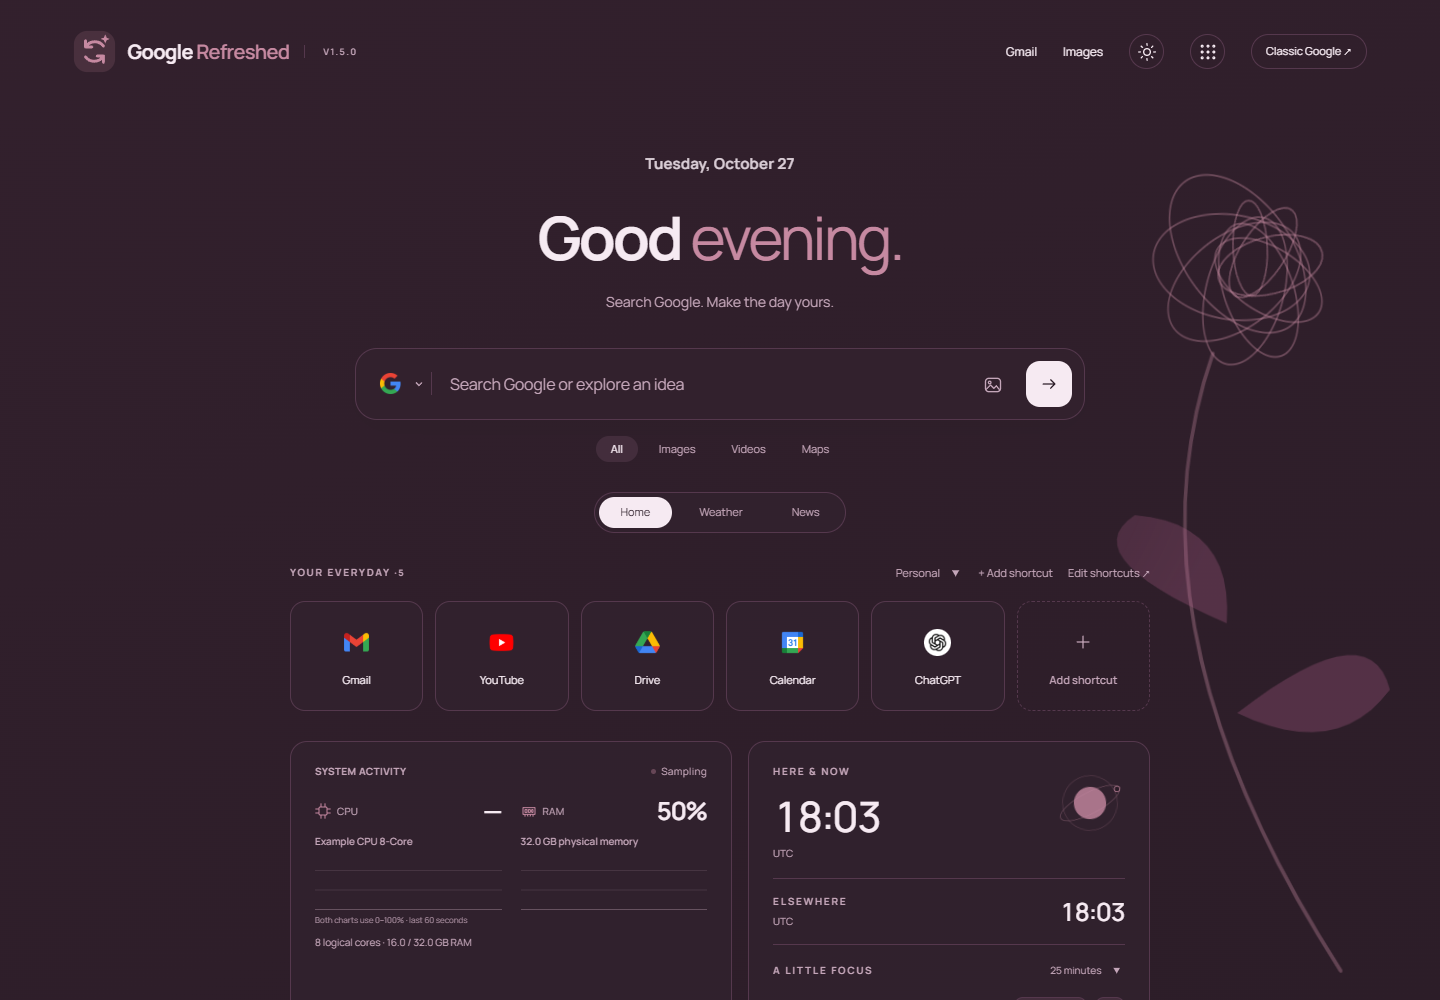
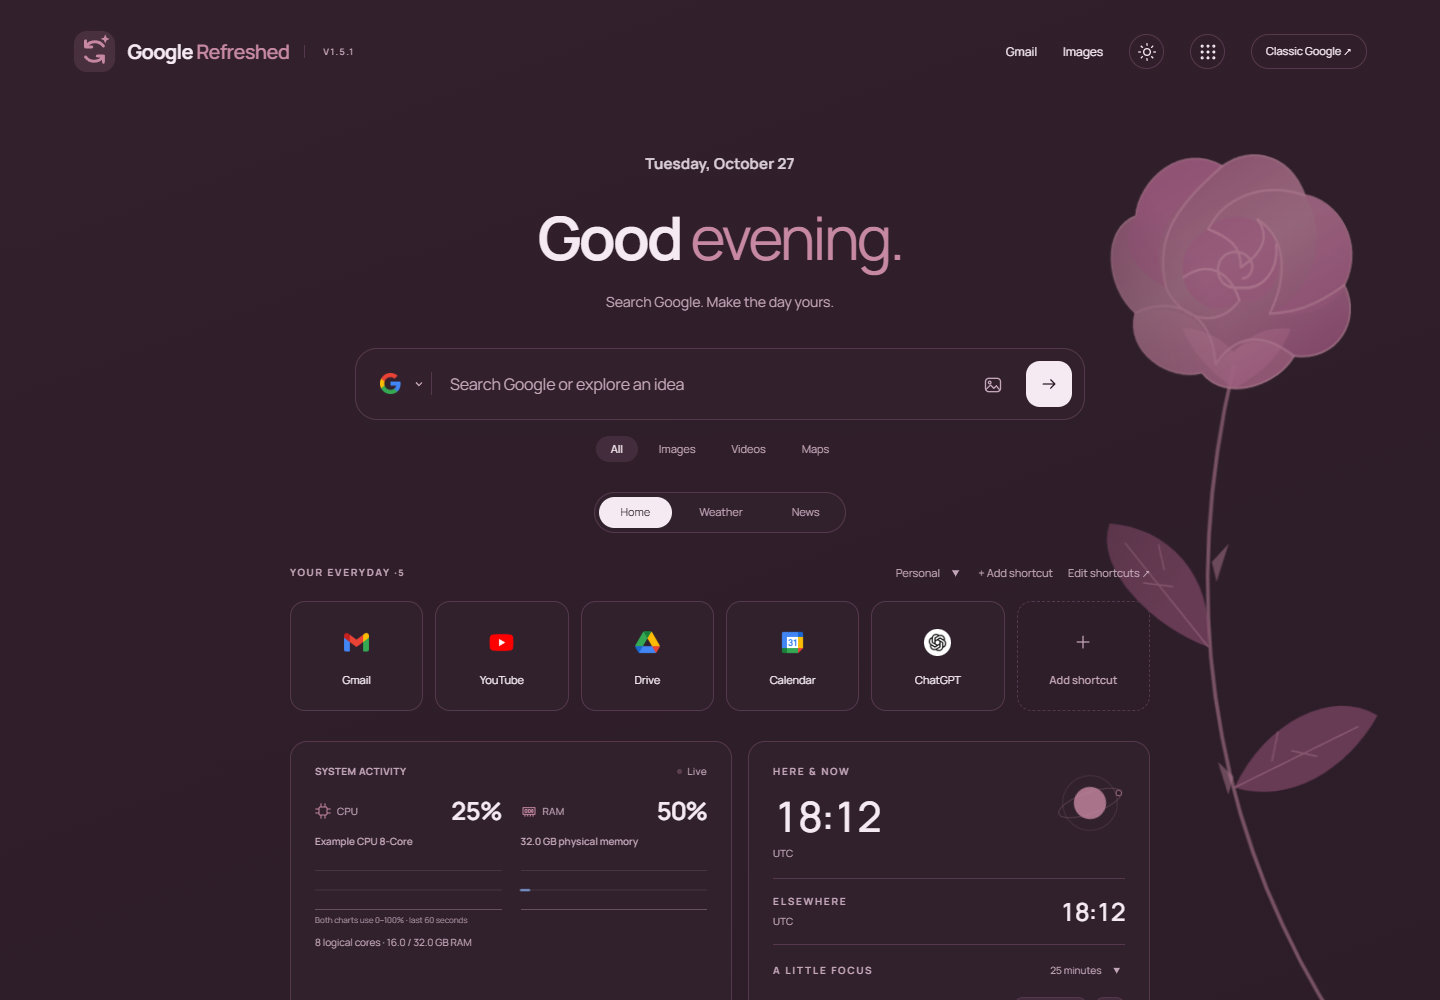
Replace tangled Rose artwork with a connected petal bloom

diff --git a/extension/scenes.js b/extension/scenes.js
@@ -23,7 +23,21 @@
     paper:()=>group('v-paper-sheet',rect(35,125,220,320,g,'rx="6" opacity=".32"')+line('M60 180H210M60 215H190M60 250H215M60 285H165',a,2,.38))+group('v-paper-fold',path('M1330 690 1550 760 1380 910 1400 800Z',g,'opacity=".42"')+line('M1330 690 1400 800 1550 760',a,2,.5))+group('v-pencil',line('M85 820 200 630',a,6,.5)+path('M82 825 84 807 94 814Z',a,'opacity=".6"')),
     sage:()=>group('v-leaf-left',line('M-20 1000Q230 670 150 180',a,5,.35)+Array.from({length:9},(_,i)=>`<ellipse cx="${110+(i%2)*45}" cy="${220+i*72}" rx="55" ry="20" fill="${g}" opacity=".42" transform="rotate(${i%2?35:-40} ${110+(i%2)*45} ${220+i*72})"/>`).join(''))+group('v-leaf-right',line('M1640 950Q1380 680 1460 380',a,4,.4)+Array.from({length:6},(_,i)=>`<ellipse cx="${1450+i%2*30}" cy="${420+i*80}" rx="65" ry="22" fill="${g}" opacity=".35" transform="rotate(${i%2?30:-35} 1450 ${420+i*80})"/>`).join('')),
     ocean:()=>group('v-tide-far',path('M-300 780Q0 690 300 790T900 790T1500 790T2100 790V1100H-300Z',a,'opacity=".26"'))+group('v-tide-near',path('M-300 875Q0 760 300 875T900 875T1500 875T2100 875V1100H-300Z',g,'opacity=".4"')+line('M-300 880Q0 765 300 880T900 880T1500 880T2100 880',f,2,.28))+group('v-sail',path('M1380 610V750H1470Z',g,'opacity=".5"')+line('M1380 610V760M1350 760H1490L1470 777H1370Z',a,3,.5)),
-    rose:()=>`<g transform="translate(1390 270)">`+group('v-rose',Array.from({length:9},(_,i)=>`<ellipse cx="0" cy="-23" rx="${20+i*5}" ry="${50+i*6}" fill="none" stroke="${a}" stroke-width="2" opacity=".4" transform="rotate(${i*40})"/>`).join(''),'')+'</g>'+group('v-leaf-left',line('M1360 380Q1250 650 1490 1000',a,4,.35)+path('M1370 650q-170-70-100-110q110 10 100 110M1380 740q150-100 170-20q-60 70-170 20',g,'opacity=".3"')),
+    rose:()=>group('v-rose-plant',
+      line('M1490 1030C1370 860 1305 635 1380 365',a,4,.6)+
+      path('M1348 645C1290 626 1220 565 1240 520C1304 525 1355 572 1348 645ZM1375 786C1410 720 1486 688 1535 716C1501 770 1435 804 1375 786Z',g,'opacity=".55"')+
+      line('M1348 645 1257 540M1375 786 1513 727M1309 584l-32-4m23-13-6-25M1417 760l7-29m15 19 28 6',a,1.5,.5)+
+      path('M1353 560 1372 542 1358 580M1374 775 1357 760 1368 793',a,'opacity=".5"')+
+      path('M1380 387Q1336 358 1323 325Q1363 330 1380 351Q1405 324 1444 328Q1429 364 1380 387Z',a,'opacity=".55"')+
+      `<g transform="translate(1380 270)">`+group('v-rose-bloom',
+        path('M-10-104C-55-128-101-91-105-56C-143-44-139 13-107 39C-119 78-70 107-35 99C-8 130 49 111 66 84C113 90 141 50 122 15C146-28 114-69 80-74C64-114 24-124-10-104Z','url(#rose-petals)',`stroke="${a}" stroke-width="2" opacity=".82"`)+
+        path('M-10-104C-64-63-96-38-73 15C-110-5-125-28-105-56C-101-91-55-128-10-104Z',g,'opacity=".55"')+
+        path('M80-74C109-27 84 24 40 42C94 50 121 25 122 15C146-28 114-69 80-74Z',g,'opacity=".4"')+
+        path('M-107 39C-55 28-24 49-20 91C4 71 29 58 66 84C49 111-8 130-35 99C-70 107-119 78-107 39Z',a,'opacity=".25"')+
+        line('M-10-104C-57-67-86-38-73 15C-54 52-12 54 7 28M80-74C34-89-10-72-26-42M122 15C88 37 65 41 40 42C61 4 59-33 28-51M-107 39C-64 22-21 41-20 91M66 84C29 57 0 65-20 91',a,2.5,.65)+
+        path('M-26-42C-3-65 39-52 48-26C62 5 32 38 7 28C-15 48-52 28-54 5C-58-17-44-34-26-42Z',g,'opacity=".56"')+
+        line('M-26-42C-4-34 10-25 9-4C35-19 41-35 28-51M-54 5C-28-11-4-2 7 28M48-26C51 0 32 19 9 16C-12 18-20 3-14-10C-8-21 10-23 19-12C25-4 20 6 11 7',a,2.5,.85)
+      )+'</g>', 'opacity=".82"'),
     futuristic:()=>group('v-circuit',line('M0 210H100L165 275V480H60M1600 500H1490L1430 560V800H1570M0 910H150L230 990',a,2,.5)+[ [100,210],[60,480],[1490,500],[1570,800] ].map(([x,y])=>circle(x,y,5,g,'class="v-spark"')).join(''))+orbit(1400,210,circle(0,0,115,'none',`stroke="${a}" stroke-width="3" stroke-dasharray="100 40 6 30" opacity=".6"`),'v-orbit',22)+group('v-scanline',rect(0,0,1600,2,g,'opacity=".22"')),
     mystic:()=>stars()+group('v-mystic-moon',moon(1380,235,105)+circle(1380,235,140,'none',`stroke="${g}" stroke-width="2" opacity=".4"`))+orbit(1380,235,[0,60,120,180,240,300].map(n=>`<path d="M0-158v-14m-5 7h10" stroke="${g}" stroke-width="2" transform="rotate(${n})"/>`).join(''),'v-orbit',38)+group('v-constellation',line('M60 260 170 190 245 355 100 450 185 590',g,2,.5)+[[60,260],[170,190],[245,355],[100,450],[185,590]].map(([x,y],i)=>circle(x,y,5,g,`class="v-spark" style="--phase:-${i}s"`)).join(''))+dust('v-mystic-dust',20),
     magical:()=>dust('v-magic-motes',24,'#e5bb6b')+group('v-grimoire',path('M35 820Q135 775 225 825Q320 775 420 820L395 955Q305 915 225 955Q140 915 55 955Z',g,'opacity=".5"')+line('M225 825V955M65 850Q140 820 200 850M260 850Q325 820 390 850M65 880Q140 850 200 880M260 880Q325 850 390 880',a,2,.7))+orbit(1370,280,circle(0,0,145,'none',`stroke="#d9ad64" stroke-width="2" opacity=".65"`)+circle(0,0,120,'none',`stroke="${g}" stroke-width="3" stroke-dasharray="12 20" opacity=".7"`)+line('M0-100 95 55H-95ZM0 100 95-55H-95Z','#d9ad64',2,.5),'v-spell-turn',45)+group('v-magic-orb',circle(1370,280,42,'url(#magic-orb)','opacity=".85"')),
@@ -59,7 +73,7 @@
     storm:()=>group('art-storm-front',cloud(-120,-40,3)+cloud(400,-70,3.3)+cloud(1000,-20,3),'opacity=".28"')+group('art-storm-back',cloud(100,50,2.4)+cloud(1000,60,2.9),'opacity=".16"')+path('M1310 150 1230 300H1275L1200 470 1350 255H1295L1370 150Z','#c4deff','class="art-lightning" opacity="0"')+group('v-storm-puddles',[ [100,940,60],[1450,920,85],[1210,990,50] ].map(([x,y,r])=>`<ellipse cx="${x}" cy="${y}" rx="${r}" ry="7" fill="none" stroke="${a}" opacity=".4" class="v-rain-ripple"/>`).join('')),
     sunset:()=>group('v-setting-sun',circle(1390,720,125,'url(#sunset-colors)','opacity=".7"'))+path('M0 830Q210 790 420 840T950 840T1600 820V1000H0Z',b)+group('v-sunset-reflection',line('M1270 855H1510M1295 880H1480M1260 910H1520M1300 940H1480',g,6,.5))+group('v-sunset-cloud',cloud(0,160,1.5)+cloud(1310,300,1.3),'opacity=".25"')
   });
-  const extraDefs=`<g id="scene-blossom">${[0,72,144,216,288].map(n=>`<ellipse cx="0" cy="-14" rx="10" ry="15" fill="currentColor" transform="rotate(${n})"/>`).join('')}${circle(0,0,5,a)}</g><linearGradient id="boreal-green" x1="0" y1="1" x2="0" y2="0"><stop stop-color="#5eebad" stop-opacity=".9"/><stop offset=".45" stop-color="#3cbaa7" stop-opacity=".4"/><stop offset="1" stop-color="#478eb6" stop-opacity="0"/></linearGradient><linearGradient id="boreal-purple" x1="0" y1="1" x2="0" y2="0"><stop stop-color="#ad8fe8" stop-opacity=".8"/><stop offset=".5" stop-color="#6a92d3" stop-opacity=".3"/><stop offset="1" stop-color="#6a92d3" stop-opacity="0"/></linearGradient><radialGradient id="magic-orb"><stop stop-color="#fff0bc"/><stop offset=".4" stop-color="#dfbd75"/><stop offset="1" stop-color="#b17bce" stop-opacity=".1"/></radialGradient><linearGradient id="ice-facet"><stop stop-color="${g}"/><stop offset=".5" stop-color="${f}" stop-opacity=".3"/><stop offset="1" stop-color="${a}"/></linearGradient><linearGradient id="amber-resin"><stop stop-color="#f2ce7c"/><stop offset=".5" stop-color="#bb7627"/><stop offset="1" stop-color="#eeb65b"/></linearGradient><linearGradient id="flame-color" x2="0" y2="1"><stop stop-color="#ffb955"/><stop offset=".5" stop-color="#ed682d"/><stop offset="1" stop-color="#9f3026" stop-opacity=".2"/></linearGradient><linearGradient id="lava-color"><stop stop-color="#b52922"/><stop offset=".4" stop-color="#f57732"/><stop offset=".7" stop-color="#d13d27"/><stop offset="1" stop-color="#ff9f40"/></linearGradient>`;
+  const extraDefs=`<linearGradient id="rose-petals" x1="0" y1="0" x2=".6" y2="1"><stop stop-color="${g}"/><stop offset=".55" stop-color="${a}"/><stop offset="1" stop-color="${g}"/></linearGradient><g id="scene-blossom">${[0,72,144,216,288].map(n=>`<ellipse cx="0" cy="-14" rx="10" ry="15" fill="currentColor" transform="rotate(${n})"/>`).join('')}${circle(0,0,5,a)}</g><linearGradient id="boreal-green" x1="0" y1="1" x2="0" y2="0"><stop stop-color="#5eebad" stop-opacity=".9"/><stop offset=".45" stop-color="#3cbaa7" stop-opacity=".4"/><stop offset="1" stop-color="#478eb6" stop-opacity="0"/></linearGradient><linearGradient id="boreal-purple" x1="0" y1="1" x2="0" y2="0"><stop stop-color="#ad8fe8" stop-opacity=".8"/><stop offset=".5" stop-color="#6a92d3" stop-opacity=".3"/><stop offset="1" stop-color="#6a92d3" stop-opacity="0"/></linearGradient><radialGradient id="magic-orb"><stop stop-color="#fff0bc"/><stop offset=".4" stop-color="#dfbd75"/><stop offset="1" stop-color="#b17bce" stop-opacity=".1"/></radialGradient><linearGradient id="ice-facet"><stop stop-color="${g}"/><stop offset=".5" stop-color="${f}" stop-opacity=".3"/><stop offset="1" stop-color="${a}"/></linearGradient><linearGradient id="amber-resin"><stop stop-color="#f2ce7c"/><stop offset=".5" stop-color="#bb7627"/><stop offset="1" stop-color="#eeb65b"/></linearGradient><linearGradient id="flame-color" x2="0" y2="1"><stop stop-color="#ffb955"/><stop offset=".5" stop-color="#ed682d"/><stop offset="1" stop-color="#9f3026" stop-opacity=".2"/></linearGradient><linearGradient id="lava-color"><stop stop-color="#b52922"/><stop offset=".4" stop-color="#f57732"/><stop offset=".7" stop-color="#d13d27"/><stop offset="1" stop-color="#ff9f40"/></linearGradient>`;
 
   const defs=`<defs><linearGradient id="sun-glow"><stop stop-color="#ffe2a0"/><stop offset="1" stop-color="${a}"/></linearGradient><linearGradient id="planet-colors" x2="1" y2="1"><stop stop-color="${g}"/><stop offset="1" stop-color="${a}"/></linearGradient><linearGradient id="aurora-colors"><stop stop-color="${a}"/><stop offset=".5" stop-color="${g}"/><stop offset="1" stop-color="#8c7bce"/></linearGradient><linearGradient id="sunset-colors" x2="0" y2="1"><stop stop-color="#f9c590"/><stop offset="1" stop-color="#cf6a95"/></linearGradient><linearGradient id="moon-colors"><stop stop-color="#f0f3ff"/><stop offset="1" stop-color="#8995af"/></linearGradient><linearGradient id="star-tail"><stop stop-color="${f}" stop-opacity="0"/><stop offset="1" stop-color="${f}"/></linearGradient><pattern id="wood-grain" width="260" height="200" patternUnits="userSpaceOnUse"><path d="M0 0H260M0 198H260M10 70Q160 20 250 90M10 90Q160 60 250 110M20 130Q130 180 240 140" fill="none" stroke="${a}" stroke-opacity=".25"/></pattern></defs>`;
   globalThis.GoogleRefreshedScenes={render:id=>`<svg viewBox="0 0 1600 1000" preserveAspectRatio="none" aria-hidden="true" data-scene="${Object.hasOwn(scenes,id)?id:'paper'}">${defs}<defs>${extraDefs}</defs>${(scenes[id]||scenes.paper)()}</svg>`};

diff --git a/extension/refresh.css b/extension/refresh.css
@@ -168,7 +168,8 @@ input[type=file]::file-selector-button{background:var(--soft);color:var(--fg);bo
 .app[data-motion=on] .v-tide-far{animation:v-wave-swell 12s ease-in-out infinite alternate}
 .app[data-motion=on] .v-tide-near{animation:v-wave-swell 8s -3s ease-in-out infinite alternate-reverse}
 .app[data-motion=on] .v-sail{animation:v-sailing 15s ease-in-out infinite alternate}
-.app[data-motion=on] .v-rose{animation:v-rose-open 12s ease-in-out infinite alternate;transform-origin:0 0}
+.app[data-motion=on] .v-rose-plant{animation:v-rose-sway 11s ease-in-out infinite alternate;transform-origin:1490px 1030px}
+.app[data-motion=on] .v-rose-bloom{animation:v-rose-open 9s -3s ease-in-out infinite alternate;transform-origin:0 0}
 .app[data-motion=on] .v-circuit{animation:v-circuit-breathe 6s ease-in-out infinite alternate}
 .app[data-motion=on] .v-scanline{animation:v-scan 14s linear infinite}
 .app[data-motion=on] .v-mystic-moon{animation:v-mystic-rise 10s ease-in-out infinite alternate}
@@ -262,7 +263,8 @@ input[type=file]::file-selector-button{background:var(--soft);color:var(--fg);bo
 @keyframes v-branch-right{from{transform:rotate(2deg)}to{transform:rotate(-1.8deg)}}
 @keyframes v-wave-swell{from{transform:translate(-55px,10px)}to{transform:translate(55px,-15px)}}
 @keyframes v-sailing{from{transform:translate(-55px,4px) rotate(-.7deg)}to{transform:translate(25px,-8px) rotate(.7deg)}}
-@keyframes v-rose-open{from{transform:scale(.94) rotate(-3deg)}to{transform:scale(1.06) rotate(3deg)}}
+@keyframes v-rose-sway{from{transform:rotate(-1.2deg)}to{transform:rotate(1.2deg)}}
+@keyframes v-rose-open{from{transform:scale(.98)}to{transform:scale(1.025)}}
 @keyframes v-circuit-breathe{from{opacity:.55}to{opacity:1}}
 @keyframes v-scan{from{transform:translateY(-20px);opacity:0}15%,85%{opacity:.65}to{transform:translateY(1020px);opacity:0}}
 @keyframes v-mystic-rise{from{transform:translateY(-16px)}to{transform:translateY(18px)}}

diff --git a/extension/popup.html b/extension/popup.html
@@ -1,3 +1,3 @@
 <!doctype html>
 <html lang="en"><meta charset="utf-8"><meta name="viewport" content="width=device-width, initial-scale=1"><title>GoogleRefreshed</title><link rel="stylesheet" href="popup.css">
-<body><img src="icons/48.png" alt="" width="48" height="48"><h1>GoogleRefreshed.</h1><p>Google search. Your personal start.</p><a href="https://www.google.com/" target="_blank" rel="noopener">Open your homepage ↗</a><a class="secondary" href="https://www.google.com/?still=customize" target="_blank" rel="noopener">Customize your homepage</a><a class="secondary" href="https://github.com/youval1234/GoogleRefreshed/releases/latest" target="_blank" rel="noopener">Check GitHub for updates ↗</a><small>v1.5.0 · Optional browser settings sync.</small></body></html>
+<body><img src="icons/48.png" alt="" width="48" height="48"><h1>GoogleRefreshed.</h1><p>Google search. Your personal start.</p><a href="https://www.google.com/" target="_blank" rel="noopener">Open your homepage ↗</a><a class="secondary" href="https://www.google.com/?still=customize" target="_blank" rel="noopener">Customize your homepage</a><a class="secondary" href="https://github.com/youval1234/GoogleRefreshed/releases/latest" target="_blank" rel="noopener">Check GitHub for updates ↗</a><small>v1.5.1 · Optional browser settings sync.</small></body></html>

diff --git a/extension/content.js b/extension/content.js
@@ -99,7 +99,7 @@
   let settings, mode = 'all', activeTab='home', classic = false, saveQueue = Promise.resolve(), noteTimer, clockTimer, saveTimer;
   let saveWaiters = [];
   const repoURL = 'https://github.com/youval1234/GoogleRefreshed';
-  const version = preview ? '1.5.0' : chrome.runtime.getManifest().version;
+  const version = preview ? '1.5.1' : chrome.runtime.getManifest().version;
   const dateFormatter = new Intl.DateTimeFormat('en', {weekday:'long',month:'long',day:'numeric'});
   const localZone = Intl.DateTimeFormat().resolvedOptions().timeZone.replaceAll('_',' ').replaceAll('/',' / ');
   const hiddenSiblings = new Map();

diff --git a/RELEASE_NOTES.md b/RELEASE_NOTES.md
@@ -1,15 +1,7 @@
-# GoogleRefreshed v1.5.0
+# GoogleRefreshed v1.5.1
 
-All themes have rebuilt scenery and stronger, measured motion. Fire and Magma bring the collection to 38 themes, with light, dark and system appearance.
+Fixes the Rose theme: overlapping orbital loops are replaced with a layered rose bloom, shaded petals, defined leaves and leaf veins. The flower and stem now share one gentle sway, with a small bloom-opening animation.
 
-- Aurora has layered northern-light curtains; Sakura has two blossom trees and independently drifting petals. Magical has a floating spellbook, orbiting seal and luminous orb. Midnight has a moonlit mountain lake and occasional meteors.
-- Code, Math, Colorful and Rainbow have new compositions: editor and flowing circuit data, traced graphs and geometry, moving Memphis shapes, and prism light with a spectrum arc. Every other theme has its own scenery and animation pass.
-- Animations stay behind the interface with a quiet center, Vivid/Subtle intensity, an off switch, reduced-motion support and hidden-tab pause. Only the selected scene is mounted. Blossom shapes are reused and skyline window animations are bounded.
-- Up to 60 shortcuts, wrapping onto additional rows. An Add shortcut button beside the group selector and a visible count make expansion easier.
-- The hardware card now keeps CPU/RAM model information and aligned usage graphs. The secondary GPU/network/unavailable-temperature block and its WebGL/connection probes are removed.
-- Reset settings to default is near the top of Customize. A second click restores homepage preferences and default shortcuts, clears local personalization, resets the focus timer and turns off optional browser settings sync. Closing Customize cancels the pending confirmation. It does not uninstall a separately installed toolbar theme.
-- Updated matching native toolbar themes: 76 light/dark folders, including Fire and Magma. They remain separate, manually installed companion themes. No new permissions are requested.
+Light/dark palettes, animation off, reduced motion, and the narrow layout were checked in an isolated Brave profile. The updated dark and light previews are included in docs/v15. No new permissions or dependencies.
 
-Validation: 153 controlled Brave checks covering native integration, all 38 themes in both appearances, real animation changes, motion controls, responsive layouts, more than six shortcuts, 60-link persistence, reset behavior, search engines, news, privacy boundaries and sync behavior. Source/history/archive privacy scan and dependency audit are included. Physical cross-device sync delivery and live Google AI pages are not asserted.
-
-To update, replace the files in the existing extension folder, reload GoogleRefreshed at brave://extensions, and refresh Google. To remove an installed toolbar theme, use brave://settings/appearance → Theme → Reset to default.
+Replace the files in the existing extension folder, reload GoogleRefreshed at brave://extensions, then refresh Google. The local preview only needs a refresh.

diff --git a/SECURITY_REVIEW.md b/SECURITY_REVIEW.md
@@ -1,6 +1,6 @@
 # Security and privacy publication review
 
-Reviewed on 2026-10-27 for GoogleRefreshed v1.5.0.
+Reviewed on 2026-10-27 for GoogleRefreshed v1.5.1.
 
 ## Scope
 
